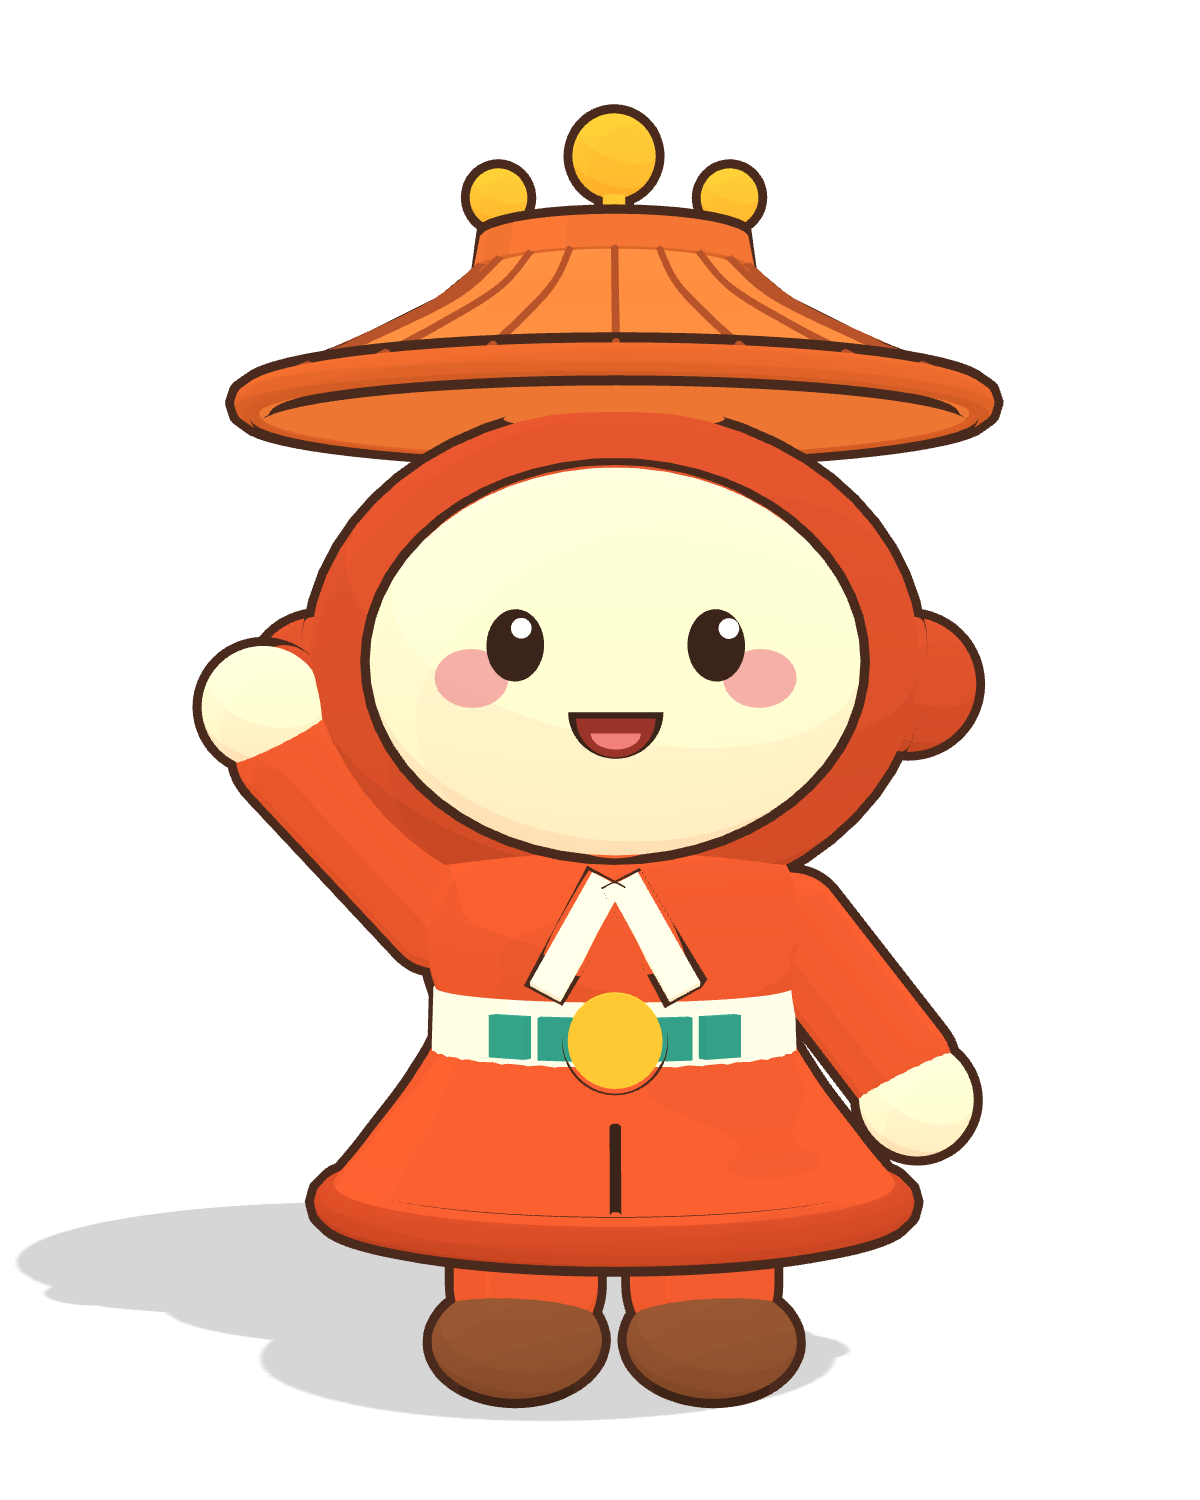
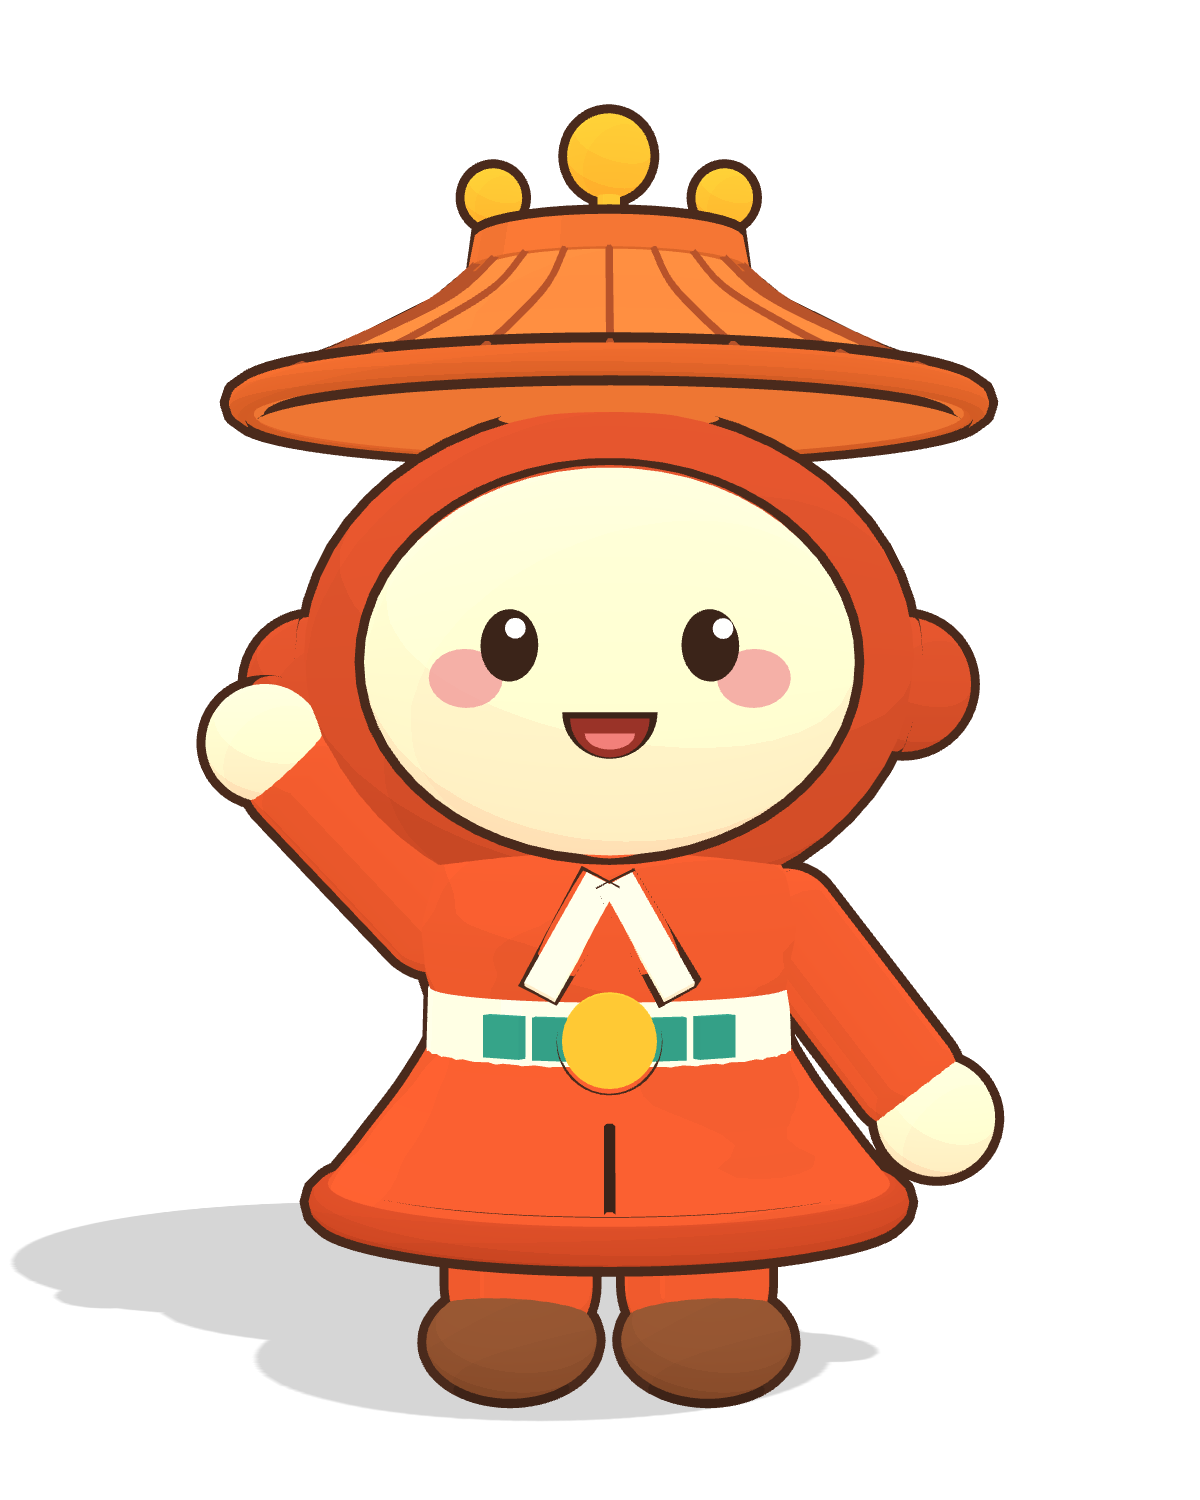
Fix 瑞瑞's waving hand blending into the cloud head
Move the raised hand outside the head at shoulder height and give
both hands a warmer cream color; re-export 3D renders.

diff --git a/mascots3d.js b/mascots3d.js
@@ -148,11 +148,26 @@ function quanquan() {
   const RED = '#cf532e', HOOD = '#bd4a2b', ROOF = '#e27b3d', GOLD = '#f3b634', FACE = '#fde8d2',
     WHITE = '#fbf4e8', TEAL = '#2b9186', SHOE = '#7b4a2f';
 
-  // 短短圓圓的腿
+  // 關節（可動）：腿、上半身、手、頭各自一個樞紐，預設姿勢與原本相同
+  const pivot = (parent, x, y, z = 0) => {
+    const p = new THREE.Group(); p.position.set(x, y, z); parent.add(p);
+    const inner = new THREE.Group(); inner.position.set(-x, -y, -z); p.add(inner);
+    return [p, inner];
+  };
+  const rig = {};
+  // 短短圓圓的腿（樞紐在髖部）
   for (const s of [-1, 1]) {
-    limb(g, [s * 0.22, 0.24, 0], [s * 0.22, 0.46, 0], 0.18, RED);
-    part(S(0.21), SHOE, { parent: g, pos: [s * 0.24, 0.12, 0.08], scale: [1, 0.62, 1.3] });
+    const [leg, li] = pivot(g, s * 0.22, 0.46);
+    limb(li, [s * 0.22, 0.24, 0], [s * 0.22, 0.46, 0], 0.18, RED);
+    part(S(0.21), SHOE, { parent: li, pos: [s * 0.24, 0.12, 0.08], scale: [1, 0.62, 1.3] });
+    rig[s < 0 ? 'legL' : 'legR'] = leg;
   }
+  // 上半身（樞紐在下擺高度，可左右彎、轉身）
+  const [upper, ui] = pivot(g, 0, 0.46);
+  rig.upper = upper;
+  const root = g;
+  {
+  const g = ui;
   // 身體：下擺外張 → 腰身收窄 → 胸口圓圓 → 往上收進頭底下
   const bodyCurve = new THREE.SplineCurve([
     [0, 0.42], [0.62, 0.42], [0.72, 0.46], [0.62, 0.6], [0.5, 0.76], [0.43, 0.9],
@@ -185,12 +200,23 @@ function quanquan() {
     c.position.set(s * 0.09, 1.14, bodyR(1.14) - 0.01);
     c.rotation.set(-0.3, 0, s * 0.5);
   }
-  // 手：一手揮手、一手自然垂下（從肩膀長出來）
-  limb(g, [-0.44, 1.16, 0], [-0.8, 1.56, 0.1], 0.13, RED);
-  part(S(0.15), FACE, { parent: g, pos: [-0.86, 1.68, 0.12] });
-  limb(g, [0.44, 1.14, 0], [0.7, 0.8, 0.1], 0.13, RED);
-  part(S(0.14), FACE, { parent: g, pos: [0.74, 0.72, 0.12] });
+  // 手：樞紐在肩膀，手臂在樞紐裡朝正下方；預設一手揮手、一手自然垂下
+  for (const s of [-1, 1]) {
+    const arm = new THREE.Group();
+    arm.position.set(s * 0.44, 1.15, 0);
+    g.add(arm);
+    limb(arm, [0, 0, 0], [0, -0.48, 0.08], 0.13, RED);
+    part(S(0.145), FACE, { parent: arm, pos: [0, -0.6, 0.1] });
+    rig[s < 0 ? 'armL' : 'armR'] = arm;
+  }
+  rig.armL.rotation.z = -2.4;   // 揮手
+  rig.armR.rotation.z = 0.65;   // 垂下
 
+  // 頭（樞紐在脖子）
+  const [head, hi] = pivot(g, 0, 1.4);
+  rig.head = head;
+  {
+  const g = hi;
   // 頭罩：跟臉一樣是橫向橢圓，四周一圈均勻紅邊
   const HC = 1.8;
   part(S(1), HOOD, { parent: g, pos: [0, HC, 0], scale: [0.76, 0.62, 0.6] });
@@ -200,14 +226,6 @@ function quanquan() {
   const fc = [0, HC - 0.02, 0.48], fr = [0.57, 0.45, 0.3];
   part(S(1), FACE, { parent: g, pos: fc, scale: fr });
   face(g, ellipsoidSurf(fc, fr), { eyes: 'open', size: 0.88, spread: 0.4, eyeY: 0.06, mouthY: -0.3, blushOut: 0.2, blushY: -0.16 });
-
-  // 下擺開衩示意：前面中間一條短線
-  const slit = [];
-  for (let i = 0; i <= 10; i++) {
-    const y = 0.53 + i * 0.018;
-    slit.push(V3(0, y, bodyR(y) + 0.012));
-  }
-  g.add(new THREE.Mesh(new THREE.TubeGeometry(new THREE.CatmullRomCurve3(slit), 20, 0.013, 6), flat(INK)));
 
   // 琉璃屋頂（整頂縮到 80%，底部貼在頭頂）
   const hat = new THREE.Group();
@@ -232,7 +250,18 @@ function quanquan() {
     part(cyl(0.03, 0.03, 0.12), GOLD, { parent: hat, pos: [s * 0.36, 2.98, 0] });
     part(S(0.09), GOLD, { parent: hat, pos: [s * 0.36, 3.07, 0] });
   }
-  return g;
+  } // 頭
+
+  // 下擺開衩示意：前面中間一條短線
+  const slit = [];
+  for (let i = 0; i <= 10; i++) {
+    const y = 0.53 + i * 0.018;
+    slit.push(V3(0, y, bodyR(y) + 0.012));
+  }
+  g.add(new THREE.Mesh(new THREE.TubeGeometry(new THREE.CatmullRomCurve3(slit), 20, 0.013, 6), flat(INK)));
+  } // 上半身
+  root.userData.rig = rig;
+  return root;
 }
 
 // ---------- B 真真：常青小柏樹 ----------
@@ -336,7 +365,7 @@ function zhongzhong() {
 // ---------- D 瑞瑞：吉祥瑞雲 ----------
 function ruirui() {
   const g = new THREE.Group();
-  const W = '#fbfaf6', ROBE = '#f3eadb', LEG = '#fffaf2', SCARF = '#2a8f86', SW = '#7cc8dc', SHOE = '#6d5547';
+  const W = '#fbfaf6', HAND = '#fff0dc', ROBE = '#f3eadb', LEG = '#fffaf2', SCARF = '#2a8f86', SW = '#7cc8dc', SHOE = '#6d5547';
 
   limb(g, [-0.16, 0.25, 0], [-0.16, 0.56, 0], 0.15, LEG);
   part(S(0.17), SHOE, { parent: g, pos: [-0.17, 0.12, 0.06], scale: [1, 0.6, 1.3] });
@@ -346,10 +375,11 @@ function ruirui() {
   part(cyl(0.36, 0.5, 0.76), ROBE, { parent: g, pos: [0, 0.9, 0] });
   part(box(0.03, 0.6, 0.02), SW, { parent: g, pos: [0.05, 0.86, 0.45], rot: [-0.18, 0, 0], outline: false });
 
-  limb(g, [0.38, 1.15, 0], [0.72, 1.55, 0.1], 0.12, ROBE);
-  part(S(0.14), W, { parent: g, pos: [0.77, 1.67, 0.12] });
+  // 揮手：手放在頭部雲朵外側，避免和白色頭部融在一起
+  limb(g, [0.38, 1.15, 0], [1.02, 1.22, 0.14], 0.12, ROBE);
+  part(S(0.14), HAND, { parent: g, pos: [1.12, 1.32, 0.16] });
   limb(g, [-0.38, 1.15, 0], [-0.6, 0.8, 0.1], 0.12, ROBE);
-  part(S(0.13), W, { parent: g, pos: [-0.63, 0.72, 0.12] });
+  part(S(0.13), HAND, { parent: g, pos: [-0.63, 0.72, 0.12] });
 
   // 圍巾
   part(new THREE.TorusGeometry(0.36, 0.11, 14, 48), SCARF, { parent: g, pos: [0, 1.3, 0], rot: [Math.PI / 2, 0, 0] });
